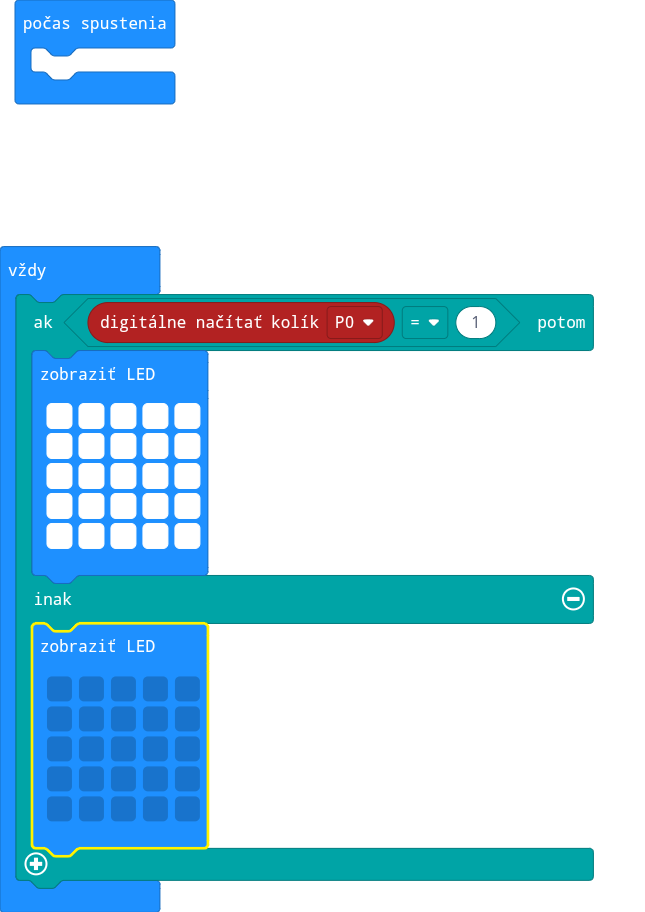
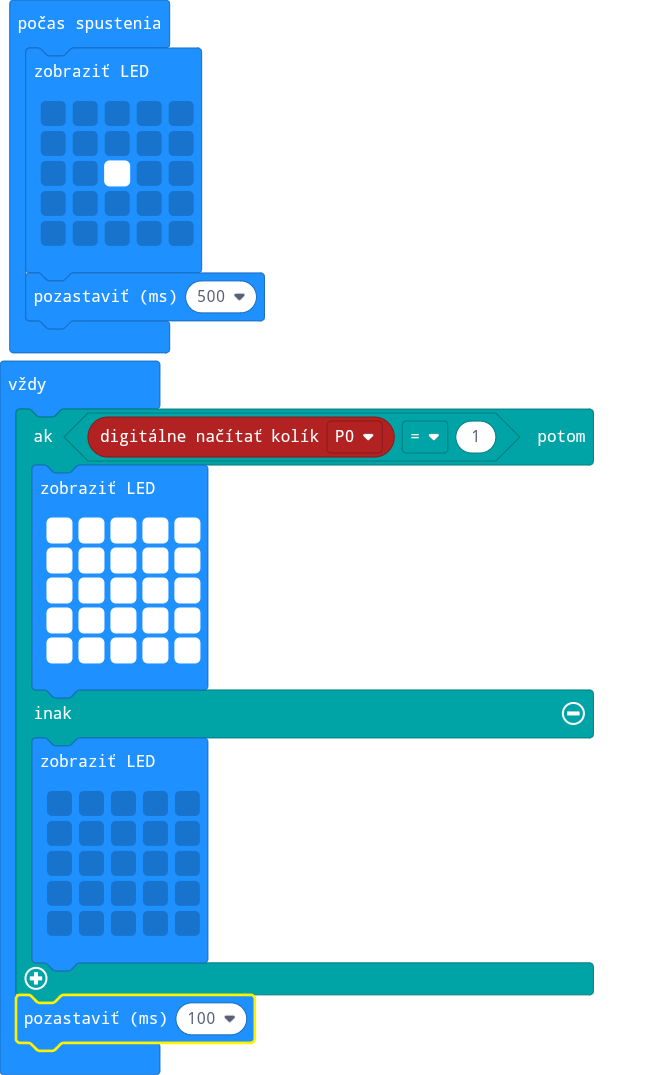
Aktualizovať main.blocks, main.ts

Changed region(s): [[0.0, 0.0, 0.9302, 0.9825]]

diff --git a/main.ts b/main.ts
@@ -1,3 +1,11 @@
+basic.showLeds(`
+    . . . . .
+    . . . . .
+    . . # . .
+    . . . . .
+    . . . . .
+    `)
+basic.pause(500)
 basic.forever(function () {
     if (pins.digitalReadPin(DigitalPin.P0) == 1) {
         basic.showLeds(`
@@ -16,4 +24,5 @@ basic.forever(function () {
             . . . . .
             `)
     }
+    basic.pause(100)
 })
